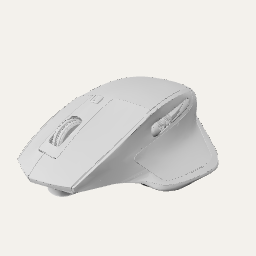
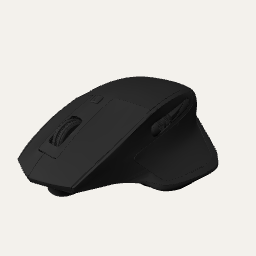
Save editable product presets and fix supplied monitor arm rendering

Changed region(s): [[0.0625, 0.2812, 0.875, 0.7812]]

diff --git a/studio.js b/studio.js
@@ -5,6 +5,7 @@ import { roomLifeBaseTransform, roomLifeDisplayTransform, ROOM_STORIES, DAY_PHAS
 import { poseIsClear } from './room-groove.mjs';
 import { SceneDesks } from './scene-desks.mjs?v=product-desk-objects-20261011';
 import { notebookTransform } from './notebook-transform.mjs';
+import { BUILD_PRESETS_KEY, cleanBuildPresets } from './build-presets.mjs?v=editable-presets-20261012';
 import { SCENE_DESKS_KEY } from './scene-desk-data.mjs';
 import { buildSceneDeskRig } from './scene-desk-rig.mjs';
 import { mountSceneDeskUI } from './scene-desk-ui.mjs?v=product-desk-objects-20261011';
@@ -41,18 +42,18 @@ import { TransformControls } from 'three/addons/controls/TransformControls.js';
 import { mergeGeometries } from 'three/addons/utils/BufferGeometryUtils.js';
 import { PRODUCT_CONFIG, defaultConfig, money, configurationPrice, priceBreakdown, validConfig, cleanConfig,
          WOOD_SPECIES, woodSpecies, SURFACE_TREATMENTS, FINISH_COLLECTIONS, TRIM_COLORS,
-         ACCESSORIES, PRESETS, accessory, accessoryFits, incompatibleAccessories } from './catalog.mjs?v=supplied-accessories-20261012';
+         ACCESSORIES, PRESETS, accessory, accessoryFits, incompatibleAccessories } from './catalog.mjs?v=editable-presets-20261012';
 import { PROJECT_FORMAT_VERSION, validateProjectFile, hardProblems, softProblems } from './project-io.mjs';
 import { TILT_SPEEDS, GLIDE_SPEEDS, TILT_MIN, TILT_MAX, maximumTiltForHeight, minimumHeightForTilt, rigDegreesForTilt } from './motion-limits.mjs?v=desktop-bands-back-20261005';
 import { validateBuild, blockingFindings, validationCacheKey } from './validation.mjs';
 import { INSTITUTIONAL_ROOMS, INSTITUTIONAL_IDS, INSTITUTIONAL_GROUPS, institutionalGroup, institutionalLayout } from './institutional-scenes.mjs?v=scene-desk-styling-20261010';
-import { WorkspaceAccessories, WorkspaceRoom, disposeWorkspaceObject, ROOM_SCENES, ROOM_ATMOSPHERES, PROP_LIBRARY } from './workspace-3d.mjs?v=supplied-accessories-20261012';
+import { WorkspaceAccessories, WorkspaceRoom, disposeWorkspaceObject, ROOM_SCENES, ROOM_ATMOSPHERES, PROP_LIBRARY } from './workspace-3d.mjs?v=editable-presets-20261012';
 import { HOME_MODES, HOME_LAYOUTS, homeLayoutForSize, homeLayoutById } from './home-office.mjs?v=scene-desk-styling-20261010';
-import { GAMING_MODES, GAMING_LAYOUTS, gamingLayoutForSize, gamingLayoutById } from './gaming-room.mjs?v=supplied-accessories-20261012';
-import { MUSIC_MODES, MUSIC_LAYOUTS, musicLayoutForSize, musicLayoutById } from './music-room.mjs?v=supplied-accessories-20261012';
-import { ARTIST_MODES, ARTIST_LAYOUTS, artistLayoutForSize, artistLayoutById } from './artist-room.mjs?v=supplied-accessories-20261012';
+import { GAMING_MODES, GAMING_LAYOUTS, gamingLayoutForSize, gamingLayoutById } from './gaming-room.mjs?v=editable-presets-20261012';
+import { MUSIC_MODES, MUSIC_LAYOUTS, musicLayoutForSize, musicLayoutById } from './music-room.mjs?v=editable-presets-20261012';
+import { ARTIST_MODES, ARTIST_LAYOUTS, artistLayoutForSize, artistLayoutById } from './artist-room.mjs?v=editable-presets-20261012';
 import { STUDY_MODES, STUDY_LAYOUTS, studyLayoutForSize, studyLayoutById } from './study-room.mjs?v=scene-desk-styling-20261010';
-import { OFFICE_MODES, OFFICE_LAYOUTS, officeLayoutForSize, officeLayoutById } from './office-room.mjs?v=supplied-accessories-20261012';
+import { OFFICE_MODES, OFFICE_LAYOUTS, officeLayoutForSize, officeLayoutById } from './office-room.mjs?v=editable-presets-20261012';
 import { GYM_MODES, GYM_LAYOUTS, gymLayoutForSize, gymLayoutById } from './gym-room.mjs?v=groove-routines-20261002';
 import { KITCHEN_MODES, KITCHEN_LAYOUTS, kitchenLayoutForSize, kitchenLayoutById } from './kitchen-room.mjs?v=groove-routines-20261002';
 import { LOUNGE_MODES, LOUNGE_LAYOUTS, loungeLayoutForSize, loungeLayoutById } from './lounge-room.mjs?v=groove-routines-20261002';
@@ -161,6 +162,8 @@ let cartItems = [];
 // V2 keys: the configuration gained an accessories list. V1 keys are still read
 // once, as a migration, and never written again.
 const SAVED_BUILD_KEY = 'ergoflexSavedBuildV2';
+let buildPresets = cleanBuildPresets(EVENT_DEMO ? null : readStore(BUILD_PRESETS_KEY, 1, null));
+let activeBuildPreset = null, applyingBuildPreset = false, buildPresetTimer = null, buildPresetRun = 0, pendingBuildPresetRestore = null;
 const CART_KEY = 'ergoflexCartV2';
 let cartIdCounter = 0;
 const nextCartId = () => `item-${Date.now()}-${cartIdCounter++}`;
@@ -577,7 +580,10 @@ function initSceneDeskEditing() {
         syncGrooveUI(roomGroove?.state||{});
     };
     sceneDesks=new SceneDesks({scene,canvas:renderer.domElement,camera,controls,
-        readStore:()=>readStore(SCENE_DESKS_KEY,1,null),writeStore:(k,v)=>writeStore(k,{...v,v:1}),changed:()=>{markEdited();setRoomSaveStatus('Saved in this browser');},
+        readStore:()=>{
+            const data=readStore(SCENE_DESKS_KEY,1,null),draft=buildPresets.entries[activeBuildPreset];
+            return draft?.room&&selectedRoomScene==='product'?{...data,rooms:{...data?.rooms,'product/default':draft.room},productAccessories:draft.config.accessories}:data;
+        },writeStore:(k,v)=>writeStore(k,{...v,v:1}),changed:()=>{markEdited();setRoomSaveStatus('Saved in this browser');scheduleBuildPresetSave();},
         room:()=>workspaceRoom,sceneId:()=>selectedRoomScene,phase:()=>measuredRoomProfile()?.mode||'morning',phaseLabel:()=>measuredRoomProfile()?.modes[measuredRoomProfile()?.mode]?.label,
         status:notifyUser,rearrange:()=>roomRearrangeEnabled&&!isSelectionMode&&!surfaceArtwork?.picking&&!rigPickMode&&!isPickingPivot&&!liveAR?.active&&!sceneDesks?.playing&&!sceneDesks?.recording,
         readLive:r=>{const p=workspaceRoom?.root?liveAnchor(r):new THREE.Vector3();return{size:currentConfig.size,style:currentDeskStyle(),pose:{x:p.x,z:p.z,yaw:deskYaw},height:liftToHeight(currentLift),tilt:primaryTiltConfig()?.currentDeg||0,lights:captureGrooveLights()};},
@@ -1457,6 +1463,7 @@ function transaction(entry) {
 function markEdited() {
     if (suppressTransactions) return;
     editRevision++;
+    scheduleBuildPresetSave();
 }
 
 // --- Neutral pose ----------------------------------------------------------
@@ -4132,6 +4139,7 @@ function applyTransformDelta(obj, base, delta) {
 }
 
 function serializeProject() {
+    saveBuildPreset();
     const sceneDeskState=sceneDesks?.serialize();
     // Motion is read BEFORE neutralising, or it would record the rest pose the
     // capture itself just imposed rather than the pose the desk is actually in.
@@ -4190,6 +4198,7 @@ function serializeProject() {
                 surfaceFinish,
                 sceneDeskStyles: JSON.parse(JSON.stringify(sceneDeskStyles)),
                 sceneDesks: sceneDeskState,
+                buildPresets: cleanBuildPresets(buildPresets),
                 trimColor,
                 ledColor,
                 ledGlow,
@@ -4536,6 +4545,17 @@ function applyConfigToUI() {
 
 function applyProjectPresentation(project) {
     const presentation = project.presentation || {};
+    // Importing a project must not overwrite the previously selected recipe.
+    activeBuildPreset = null;
+    if (presentation.buildPresets) {
+        buildPresets = cleanBuildPresets(presentation.buildPresets);
+        writeStore(BUILD_PRESETS_KEY, buildPresets);
+        activeBuildPreset = buildPresets.active;
+    } else {
+        buildPresets.active = null;
+        writeStore(BUILD_PRESETS_KEY, buildPresets);
+    }
+    syncBuildPresetUI();
     if(presentation.sceneDesks!==undefined)sceneDesks?.restore(presentation.sceneDesks);
     // Importing finishes must not register a manual edit in the outgoing room.
     sceneDeskLocation = null;
@@ -4991,17 +5011,103 @@ function renderPriceBreakdown() {
     }
 }
 
-function applyPreset(preset) {
-    currentConfig = cleanConfig(preset);
-    applyConfigToUI();
-    rememberSceneDeskStyle();
-    applyAccessoryVisibility();
-    renderAccessories();
-    if (preset.cameraPreset) {
-        const select = document.getElementById('camera-view');
-        if (select) { select.value = preset.cameraPreset; select.dispatchEvent(new Event('change')); }
+function syncBuildPresetUI(message) {
+    const preset = PRESETS.find(p => p.id === activeBuildPreset);
+    document.querySelectorAll('[data-preset]').forEach(card => {
+        card.setAttribute('aria-pressed', String(card.dataset.preset === activeBuildPreset));
+        const draft = buildPresets.entries[card.dataset.preset];
+        const label = card.querySelector('[data-preset-version]');
+        if (label) label.textContent = draft ? 'Your saved version' : 'Original setup';
+        const price = card.querySelector('em');
+        if (price && draft) price.textContent = money(configurationPrice(draft.config)) + (priceBreakdown(draft.config).some(l => l.quoted) ? ' + quote' : '');
+    });
+    const save = document.getElementById('save-preset');
+    if (save) { save.hidden = !preset; save.disabled = applyingBuildPreset || selectedRoomScene !== 'product'; save.textContent = `Save ${preset?.name || 'preset'} now`; }
+    const status = document.getElementById('preset-save-status');
+    if (status) status.textContent = message || (preset ? `${preset.name} · edits auto-save in this browser.` : 'Choose a setup. Your edits will auto-save as its own version.');
+}
+
+function saveBuildPreset() {
+    clearTimeout(buildPresetTimer);
+    if (EVENT_DEMO || applyingBuildPreset || !activeBuildPreset || selectedRoomScene !== 'product' || !sceneDesks?.active?.product || workspaceAccessories.pending.size || sceneDesks.objects.loading || sceneDesks.objects.drag) return false;
+    const room = sceneDesks.serialize().rooms['product/default'];
+    // Product view uses the CAD motion coordinates rather than room millimetres.
+    if (room?.desks.main) room.desks.main.pose = { x: glideTarget.x, z: glideTarget.z, yaw: deskYaw };
+    const next = cleanBuildPresets({ ...buildPresets, active: activeBuildPreset, entries: { ...buildPresets.entries, [activeBuildPreset]: {
+        config: cleanConfig(currentConfig), room,
+        surface: { finish: surfaceFinish, grain: grainEnabled, visibility: grainVisibility, sheen: grainSheen }
+    } } });
+    if (!writeStore(BUILD_PRESETS_KEY, next)) { syncBuildPresetUI('Could not save in this browser. Use Save project to keep your edits.'); return false; }
+    buildPresets = next;
+    syncBuildPresetUI(`${PRESETS.find(p => p.id === activeBuildPreset).name} · saved in this browser.`);
+    return true;
+}
+
+function scheduleBuildPresetSave() {
+    if (!activeBuildPreset || applyingBuildPreset || selectedRoomScene !== 'product') return;
+    clearTimeout(buildPresetTimer);
+    buildPresetTimer = setTimeout(saveBuildPreset, 500);
+}
+
+async function applyPreset(preset) {
+    preset = PRESETS.find(p => p.id === preset?.id);
+    if (!preset) return false;
+    saveBuildPreset();
+    const run = ++buildPresetRun;
+    applyingBuildPreset = true;
+    pendingBuildPresetRestore = null;
+    activeBuildPreset = preset.id;
+    const draft = buildPresets.entries[preset.id];
+    let applied = false;
+    try {
+        // Tear down the outgoing surface objects before binding this recipe's own
+        // objects. Other room layouts and desk routines remain in the same data.
+        sceneDesks?.dispose();
+        if (sceneDesks) {
+            const data = sceneDesks.serialize();
+            if (draft?.room) data.rooms['product/default'] = draft.room;
+            else delete data.rooms['product/default'];
+            delete data.productAccessories;
+            sceneDesks.restore(data);
+        }
+        currentConfig = cleanConfig(draft?.config || preset);
+        if (draft) {
+            surfaceFinish = draft.surface.finish; grainEnabled = draft.surface.grain;
+            grainVisibility = draft.surface.visibility; grainSheen = draft.surface.sheen;
+            clearPhotoGrainTextures(); syncGrainControls();
+            const sheen = document.getElementById('surface-finish'); if (sheen) sheen.value = surfaceFinish;
+            const grain = document.getElementById('wood-grain'); if (grain) grain.checked = grainEnabled;
+        }
+        sceneDeskLocation = 'product';
+        applyConfigToUI(); rememberSceneDeskStyle(); applyAccessoryVisibility(); renderAccessories();
+        sceneDeskStyles.product = currentDeskStyle();
+        setRoomScene('product', true, { preserveDesk: true });
+        syncBuildPresetUI(`Loading ${preset.name}…`);
+        await Promise.all([workspaceRoom?.ready, workspaceAccessories?.ready]);
+        await sceneDesks?.objects.ready;
+        if (run !== buildPresetRun) return false;
+        workspaceAccessories?.layout();
+        const state = draft?.room?.desks.main;
+        if (state) { applyProjectMotion({ heightInches: state.height, tilt: { [primaryTiltConfig()?.name]: state.tilt }, yaw: state.pose.yaw, glide: { x: state.pose.x, z: state.pose.z } }); applyGrooveLights(state.lights); }
+        if (preset.cameraPreset) {
+            const select = document.getElementById('camera-view');
+            if (select) { select.value = preset.cameraPreset; select.dispatchEvent(new Event('change')); }
+        }
+        notifyUser(`${preset.name}${draft ? ' saved version' : ''} applied.`);
+        applied = true;
+        return true;
+    } finally {
+        if (run === buildPresetRun) {
+            applyingBuildPreset = false;
+            if (!applied) {
+                activeBuildPreset = null;
+                buildPresets.active = null;
+                writeStore(BUILD_PRESETS_KEY, buildPresets);
+            }
+            syncBuildPresetUI();
+            if (applied) saveBuildPreset();
+        }
     }
-    notifyUser(`${preset.name} applied.`);
 }
 
 function buildGuidedConfiguration() {
@@ -5020,13 +5126,16 @@ function buildGuidedConfiguration() {
         card.className = 'preset-card';
         card.dataset.preset = preset.id;
         const config = cleanConfig(preset), quote = priceBreakdown(config).some(line => line.quoted);
-        card.innerHTML = `<strong>${preset.name}</strong><small>${preset.blurb}</small><em>${money(configurationPrice(config))}${quote ? ' + quote' : ''}</em>`;
-        card.onclick = () => applyPreset(preset);
+        card.innerHTML = `<strong>${preset.name}</strong><small>${preset.blurb}</small><span data-preset-version>Original setup</span><em>${money(configurationPrice(config))}${quote ? ' + quote' : ''}</em>`;
+        card.onclick = () => { applyPreset(preset).catch(error => { console.error('[Presets]', error); notifyUser('That setup could not be restored. Your saved version is kept.'); }); };
         presets.append(card);
     }
     // Above the accordions, below the product header.
     const header = column.querySelector('.mb-8');
     if (header) header.after(presets); else column.prepend(presets);
+    const save = document.createElement('button'); save.id = 'save-preset'; save.type = 'button'; save.className = 'btn-secondary'; save.onclick = () => { if (saveBuildPreset()) notifyUser('Your preset edits are saved.'); };
+    const status = document.createElement('p'); status.id = 'preset-save-status'; status.className = 'studio-note'; status.role = 'status';
+    presets.querySelector('.eyebrow').after(save, status); syncBuildPresetUI();
 
     const accessories = document.createElement('div');
     accessories.className = 'accessory-block';
@@ -6361,6 +6470,7 @@ function updatePrice() {
     renderPriceBreakdown();
     scheduleValidation();
     syncBuildSummary();
+    scheduleBuildPresetSave();
 }
 
 function addToCart() {
@@ -10254,6 +10364,7 @@ function setMeasuredRoomMode(sceneId, id, moveDesk = true) {
 }
 
 function setRoomScene(id, persist = true, { preserveDesk = false, defaultDesktop = !preserveDesk } = {}) {
+    saveBuildPreset();
     if (Object.hasOwn(INSTITUTIONAL_GROUPS, id)) {
         const group = INSTITUTIONAL_GROUPS[id];
         let setting = group.settings.includes(selectedRoomScene) ? selectedRoomScene : group.initial;
@@ -10350,8 +10461,14 @@ function setRoomScene(id, persist = true, { preserveDesk = false, defaultDesktop
             sceneDesks?.bind(workspaceRoom);
             await sceneDesks?.objects.ready;
             if(hydrationToken!==sceneAssetHydrationToken)return;
+            if (choice.id === 'product' && pendingBuildPresetRestore) {
+                const state = pendingBuildPresetRestore.room?.desks.main;
+                pendingBuildPresetRestore = null;
+                if (state) { applyProjectMotion({ heightInches: state.height, tilt: { [primaryTiltConfig()?.name]: state.tilt }, yaw: state.pose.yaw, glide: { x: state.pose.x, z: state.pose.z } }); applyGrooveLights(state.lights); }
+            }
             roomInteractions?.bind(workspaceRoom);roomLedSpill.bind(workspaceRoom);
             syncGrooveUI(roomGroove?.state || {});
+            scheduleBuildPresetSave();
         }
     });
     if (workspaceRoom) workspaceRoom.ready = assetsReady;
@@ -10379,6 +10496,7 @@ function setRoomScene(id, persist = true, { preserveDesk = false, defaultDesktop
     applyRoomLighting();
     syncHomeOfficeUI();
     updateSceneLibraryStatus();
+    syncBuildPresetUI();
     if (persist) {
         try { localStorage.setItem('ergoflex.roomScene', choice.id); } catch {}
     }
@@ -10805,6 +10923,23 @@ function initStudio() {
         if (validConfig(stored)) { currentConfig = cleanConfig(stored); restoredBuildSize = true; restoredSharedBuild = Boolean(shared); }
         if (shared && !validConfig(stored)) notifyUser('This build link is invalid. Showing the default configuration.');
     } catch { notifyUser('Saved configuration could not be read. Showing the default build.'); }
+    if (!EVENT_DEMO && !restoredSharedBuild) {
+        const draft = buildPresets.entries[buildPresets.active];
+        const view = new URLSearchParams(location.search).get('view');
+        if (draft && view !== 'room') {
+            activeBuildPreset = buildPresets.active; currentConfig = cleanConfig(draft.config); restoredBuildSize = true;
+            surfaceFinish = draft.surface.finish; grainEnabled = draft.surface.grain;
+            grainVisibility = draft.surface.visibility; grainSheen = draft.surface.sheen;
+            pendingBuildPresetRestore = draft;
+        } else if (view !== 'room') {
+            // Adopt an existing Office build without reapplying its layout.
+            const office = currentConfig.size === '60x30' && ['monitor-arm-2','keyboard-tray','ergo-keyboard'].every(id => currentConfig.accessories.includes(id));
+            activeBuildPreset = office ? 'office' : PRESETS.find(p => JSON.stringify(cleanConfig(p)) === JSON.stringify(currentConfig))?.id || null;
+            if (office && !currentConfig.accessories.includes('logitech-mx-master')) {
+                currentConfig = cleanConfig({ ...currentConfig, accessories: [...currentConfig.accessories.filter(id => accessory(id)?.exclusiveGroup !== 'mouse'), 'logitech-mx-master'] });
+            }
+        }
+    }
     try {
         const saved = readStored(CART_KEY, 'ergoflexCartV1') || [];
         if (Array.isArray(saved)) cartItems = saved.filter(validConfig).slice(0, 100).map((item, index) => ({ ...cleanConfig(item), id: `restored-${index}`, quantity: Math.max(1, Math.min(20, Math.round(Number(item.quantity) || 1))), price: configurationPrice(cleanConfig(item)) }));
@@ -10831,6 +10966,7 @@ function initStudio() {
     // was no way to take that back from the page - clearing it meant editing
     // localStorage by hand.
     document.getElementById('reset-build').onclick = () => {
+        saveBuildPreset(); activeBuildPreset = null; buildPresets.active = null; writeStore(BUILD_PRESETS_KEY, buildPresets); syncBuildPresetUI();
         try { localStorage.removeItem(SAVED_BUILD_KEY); localStorage.removeItem('ergoflexSavedBuildV1'); } catch {}
         currentConfig = defaultConfig();
         applyConfigToUI();
@@ -11419,6 +11555,8 @@ window.ErgoFlex = {
     get deletedBakedRigs() { return { tilt: [...deletedBakedRigs.tilt], actuator: [...deletedBakedRigs.actuator] }; },
     focusCameraShortcut,
     applyPreset,
+    saveBuildPreset,
+    get activeBuildPreset() { return activeBuildPreset; },
     toggleAccessory,
     get priceLines() { return priceBreakdown(currentConfig); },
     runValidation,
@@ -11501,6 +11639,9 @@ const ctx = {
 };
 
 // Populate the configurator UI first so it works even if 3D init fails
+for (const event of ['input', 'change', 'click', 'pointerup']) document.addEventListener(event, scheduleBuildPresetSave);
+window.addEventListener('pagehide', saveBuildPreset);
+window.addEventListener('beforeunload', saveBuildPreset);
 initStudio();
 populateFinishOptions();
 mountTrimPalette();

diff --git a/portal-ui.css b/portal-ui.css
@@ -203,6 +203,10 @@ html[data-portal-theme] #setup-sidebar .accessory-row.is-selected { background: 
 html[data-portal-theme] #setup-sidebar .scene-current-item { background: var(--ui-card); color: var(--ui-text); border-color: var(--ui-border); font-size: 11px !important; }
 html[data-portal-theme] #setup-sidebar .scene-current-item[aria-pressed=true] { background: var(--ui-selected) !important; color: var(--ui-text); border-color: var(--ui-accent) !important; }
 html[data-portal-theme] #setup-sidebar .preset-card small { color: var(--ui-muted); }
+html[data-portal-theme] #setup-sidebar .preset-card [data-preset-version] { color: var(--ui-muted); font-size: 10px; }
+html[data-portal-theme] #setup-sidebar .preset-card[aria-pressed=true] { background: var(--ui-selected); border-color: var(--ui-accent); }
+#preset-save-status { margin: 8px 0 0; }
+#save-preset { width: 100%; }
 html[data-portal-theme] #setup-sidebar :is(.led-map-diagnostic button, .led-playback-controls button) { background: var(--ui-card); color: var(--ui-text); border-color: var(--ui-border); }
 html[data-portal-theme] #setup-sidebar .artwork-upload input::file-selector-button { background: var(--ui-accent); color: var(--ui-on-accent); }
 html[data-portal-theme] #setup-sidebar :is(.artwork-badge, .accessory-add, .price-breakdown) { border-color: var(--ui-border); }

diff --git a/product-demo.html b/product-demo.html
@@ -216,7 +216,7 @@
     <link rel="stylesheet" href="studio.css?v=product-options-20261011">
     <link rel="stylesheet" href="app-remote.css?v=screen-share-20261010">
     <link rel="stylesheet" href="./product-demo.css?v=desktop-bands-back-20261005">
-    <link rel="stylesheet" href="portal-ui.css?v=dropdown-colors-20261012">
+    <link rel="stylesheet" href="portal-ui.css?v=editable-presets-20261012">
 </head>
 <body class="bg-white">
     <!-- Header -->
@@ -746,7 +746,7 @@
     </script>
 
     <script type="module" src="./portal-ui.mjs?v=portal-polish-20261008"></script>
-    <script type="module" src="./studio.js?v=supplied-accessories-20261012"></script>
+    <script type="module" src="./studio.js?v=editable-presets-20261012"></script>
     <script>
         // Classic script: runs before the deferred module above. Browsers refuse to
         // load ES modules over file://, so studio.js never executes and the loader

diff --git a/index.html b/index.html
@@ -215,7 +215,7 @@
     </script>
     <link rel="stylesheet" href="studio.css?v=product-options-20261011">
     <link rel="stylesheet" href="app-remote.css?v=screen-share-20261010">
-    <link rel="stylesheet" href="portal-ui.css?v=dropdown-colors-20261012">
+    <link rel="stylesheet" href="portal-ui.css?v=editable-presets-20261012">
 </head>
 <body class="bg-white">
     <!-- Header -->
@@ -813,7 +813,7 @@
     </script>
 
     <script type="module" src="./portal-ui.mjs?v=portal-polish-20261008"></script>
-    <script type="module" src="./studio.js?v=supplied-accessories-20261012"></script>
+    <script type="module" src="./studio.js?v=editable-presets-20261012"></script>
     <script>
         // Classic script: runs before the deferred module above. Browsers refuse to
         // load ES modules over file://, so studio.js never executes and the loader

diff --git a/docs/supplied-accessories-20261012.md b/docs/supplied-accessories-20261012.md
@@ -43,3 +43,13 @@ The supplied monitor primitives combined display and enclosure faces. The screen
 ## Verification
 
 `node tests/ergoflex-collection-test.cjs` checks all 29 supplied collection assets, presets, real MX Master loading, mounting endpoints before/after screen edits, single/dual arm behavior, GLB export, rapid selection changes, motion and saved builds. `node tests/product-desk-objects-test.cjs` checks edited placements, undo, library additions, reload and room/product switching.
+
+## Editable Start From setups and rendering correction
+
+Each Start From setup now keeps a separate edited version in `ergoflex.buildPresetsV1`: configuration, accessory and added-object placement, desk posture, LED settings and surface finish controls. Changes auto-save locally; **Save [setup] now** flushes immediately. **Save project** includes these versions for backup or transfer. Existing Office builds are adopted without resetting their edited object placements; the previous Lift mouse is replaced by the supplied MX Master.
+
+Modern Grey uses a darker `#72777c` tint. The MX Master asset and conversion manifest now use the Ergo keyboard's graphite base color, roughness and metalness; its revision query prevents the prior light material from remaining cached.
+
+The supplied monitor arm fitting path preserves each mesh's scalar or array material form. Previously it converted scalar materials to arrays on CAD geometry with no material groups, so Three.js skipped rendering the actual arms while still showing the VESA adapters. The shared single/dual arm preparation now renders the CAD assembly correctly.
+
+`node tests/editable-build-presets-test.cjs` verifies independent setup versions, switch/reload persistence, existing Office migration, project export, exact keyboard/mouse material matching and draw calls for the actual dual-arm assembly.
